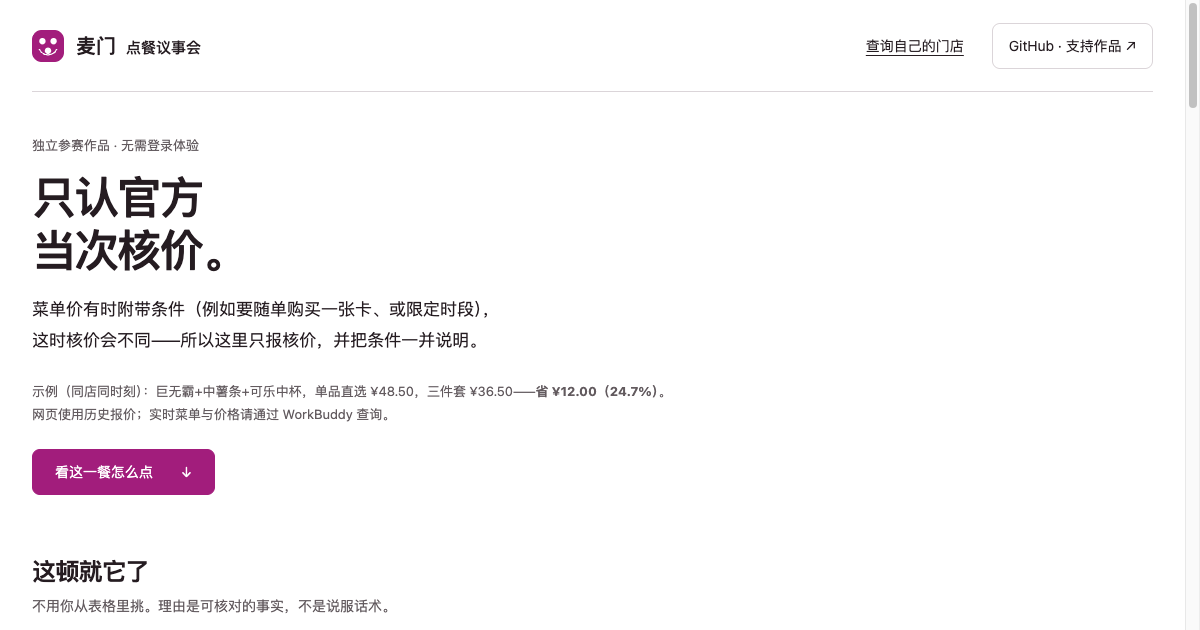
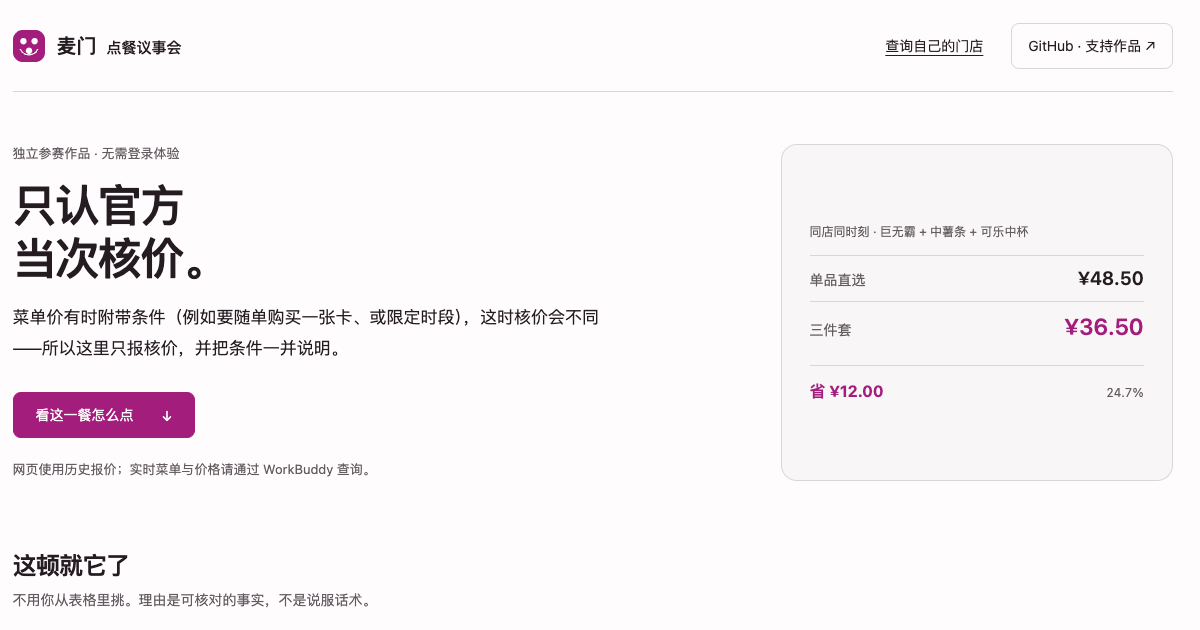
docs: 宣传图按新页面重拍，README 补「更细的比较」
2026-10-24 布局修订后，README 引用的截图仍是改版前的单栏版本：
- hero.png 还是 760px 单栏首屏（现为两栏 + 右侧核价对比卡）
- results.png 还显示「展开价格与营养数据」「三种推荐角度」两个折叠行（现已合并为「更细的比较」）
- social.png 是旧首屏裁切；mobile.png 同样过期

改动：
- 四张图全部从已部署的线上页面重拍（禁用缓存）：hero 1440×900、results 1440×900（展开候选）、
  mobile 390×844、social 1200×630（新首屏裁切）
- README 图注更新，并在「先试 30 秒」补上「更细的比较」一步
- validation.md 追加记录

页面本身、data.js、review.js、文案逻辑均未改动。

diff --git a/README.md b/README.md
@@ -14,7 +14,7 @@
 
 > **English TL;DR** — A read-only McDonald's China MCP client + agent skill. Say *"35 yuan, not spicy, regular cola, no ice, takeaway"* and it compares **complete** meals (main + side + drink) using official per-order pricing, tells you **why each rejected meal lost** (dominated by which candidate, on which axis), and when nothing fits it says so — plus how much budget would actually be needed. An explicit regular-cola choice is never silently swapped for zero sugar. [English README](README_EN.md) · [30-second demo](https://polaris-smart.github.io/mcd-agent-gourmet/)
 
-![首屏：只认官方当次核价，直接给一个答案和可复制的点单卡](docs/assets/hero.png)
+![首屏：右侧同店同时刻的核价对比（单品直选 ¥48.50 vs 三件套 ¥36.50），下方一个答案 + 可复制点单卡](docs/assets/hero.png)
 
 ## 先试 30 秒
 
@@ -24,6 +24,7 @@
 - 点 **「就这个」**：出现可复制的点单卡（门店 / 取餐方式 / 每样官方名称 / 合计）。
 - 把预算改成 **30 元**：它说没有方案，并告诉你最低需要多少（¥36.50）——不硬凑。
 - 想看别的，点 **「我想比较」**：才展开全部候选与「为什么不是它」。默认不给表格。
+- 想看得更深，展开 **「更细的比较」**：切换比较角度（价格与钠 / 口味与钠 / 四维营养），并看三种推荐角度各自选了什么。
 
 点单卡就是最终产出物——门店、取餐方式、每样官方名称、合计，照着它就能在 App 或柜台点单：
 

diff --git a/docs/validation.md b/docs/validation.md
@@ -1,5 +1,11 @@
 # 验证记录
 
+## 宣传图按新页面重拍 · 2026-10-24
+
+- **背景。** 2026-10-24 的布局修订（首屏两栏、结果区折叠行合并、handoff 两栏）之后，`README` 引用的 `assets/hero.png`、`assets/results.png`、`assets/social.png` 仍是改版前的单栏截图；`assets/mobile.png` 同样过期。
+- **已执行：从线上页面重拍。** 四张图均取自 `https://polaris-smart.github.io/mcd-agent-gourmet/`（部署完成、禁用缓存后实拍）：`hero.png` 1440×900、`results.png` 1440×900（已展开候选面板）、`mobile.png` 390×844、`social.png` 1200×630（由新首屏裁切）。`README` 图注同步，并补上「更细的比较」这一步。
+- **未改动。** 页面本身、`docs/data.js`、`docs/review.js` 与所有文案逻辑未动；`order-card.png` 仍是 2026-10-24 的点单卡特写，未过期。
+
 ## 页面布局修订 · 2026-10-24
 
 - **背景。** 首屏 `.intro` 曾被限制在 760px，而 `main.wrap` 是 1160px，左右边界不齐、右侧约 400px 长期空着；样式表另有 4 段后置覆盖（把首屏从两栏改成单栏、把 `.controls` 从 3 栏改成 4 栏），并残留 13 个硬编码十六进制颜色，绕开了 OKLCH 令牌。
